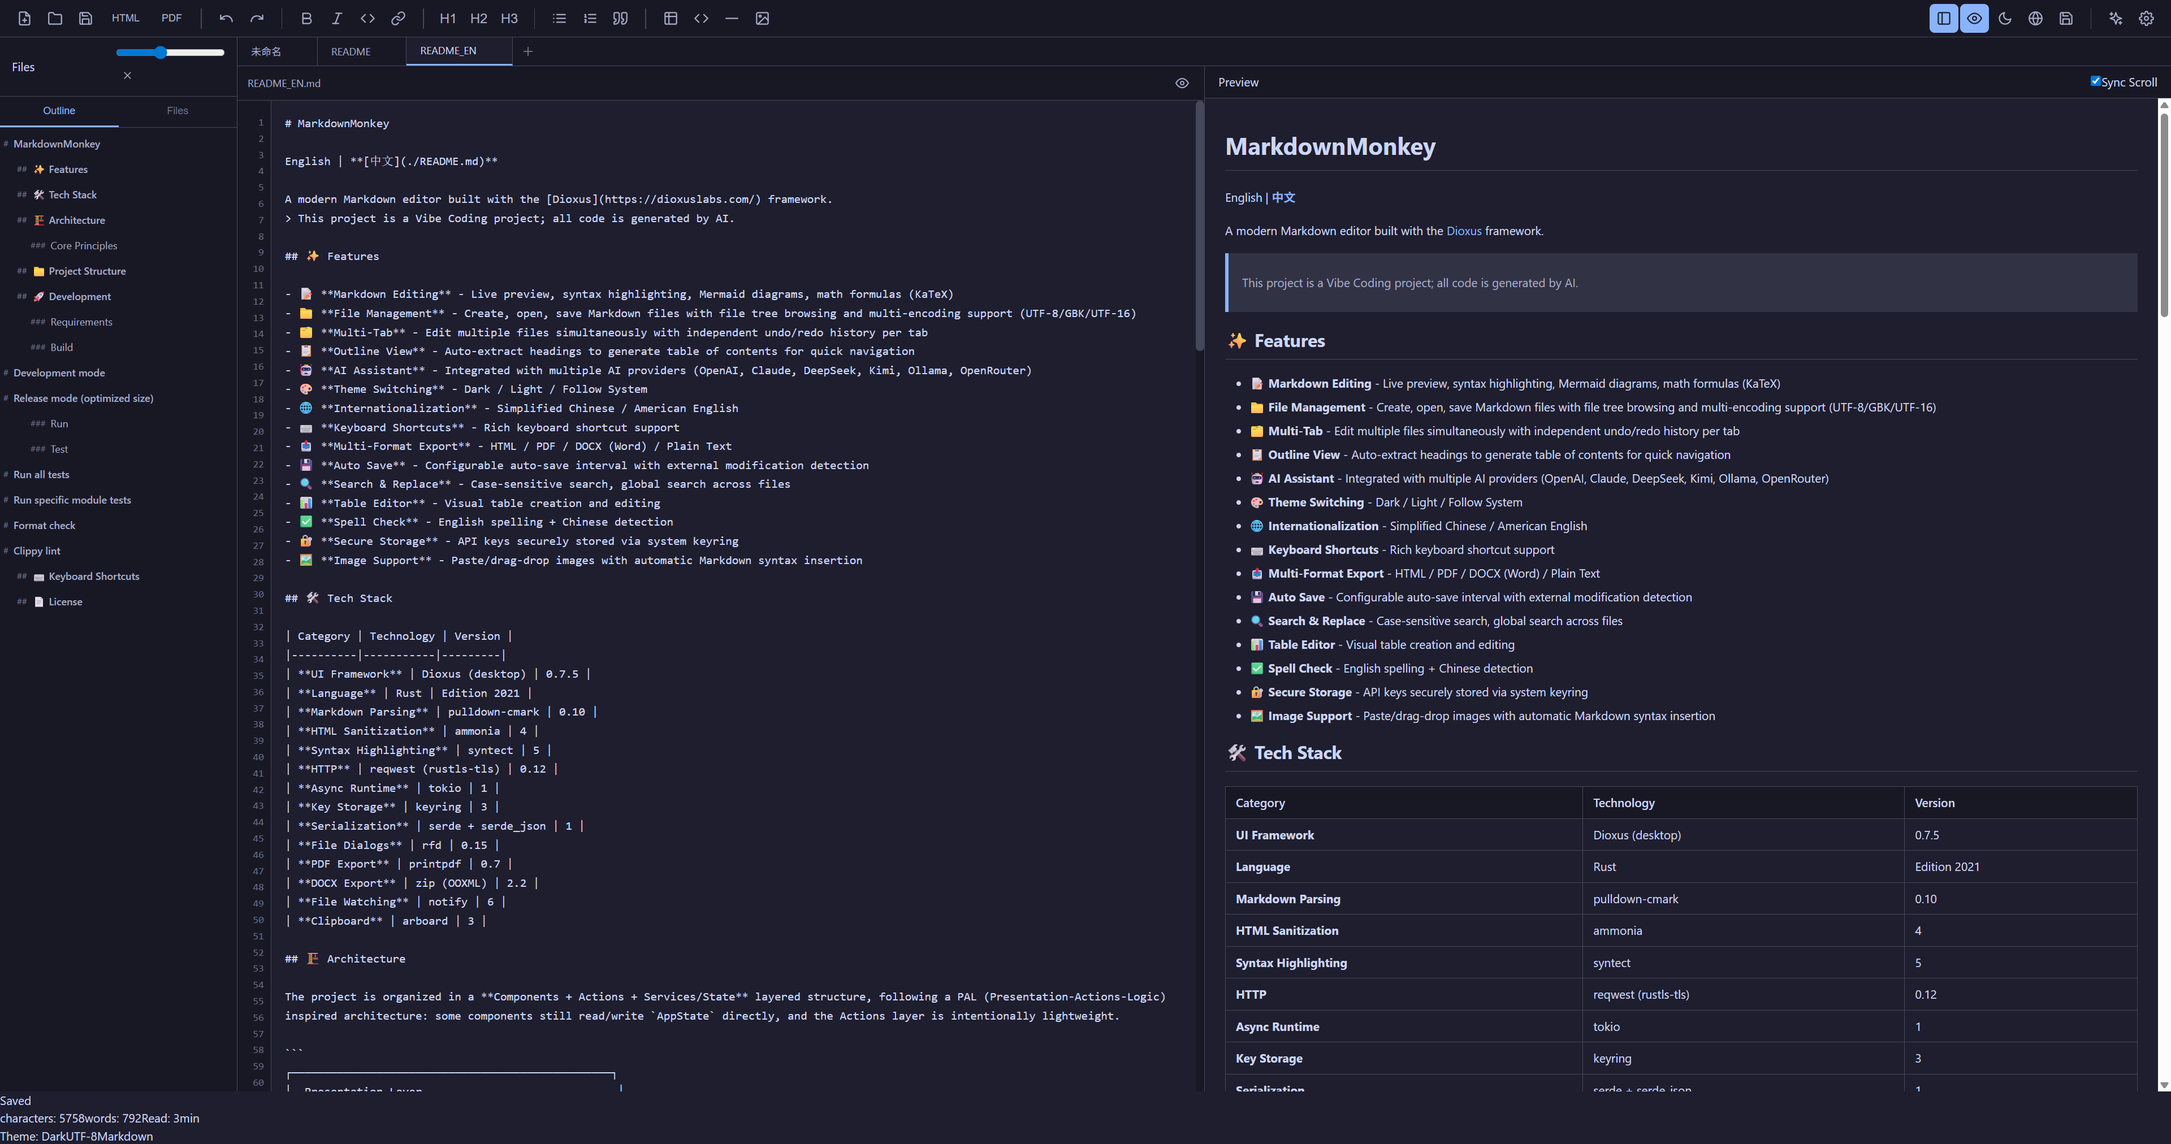
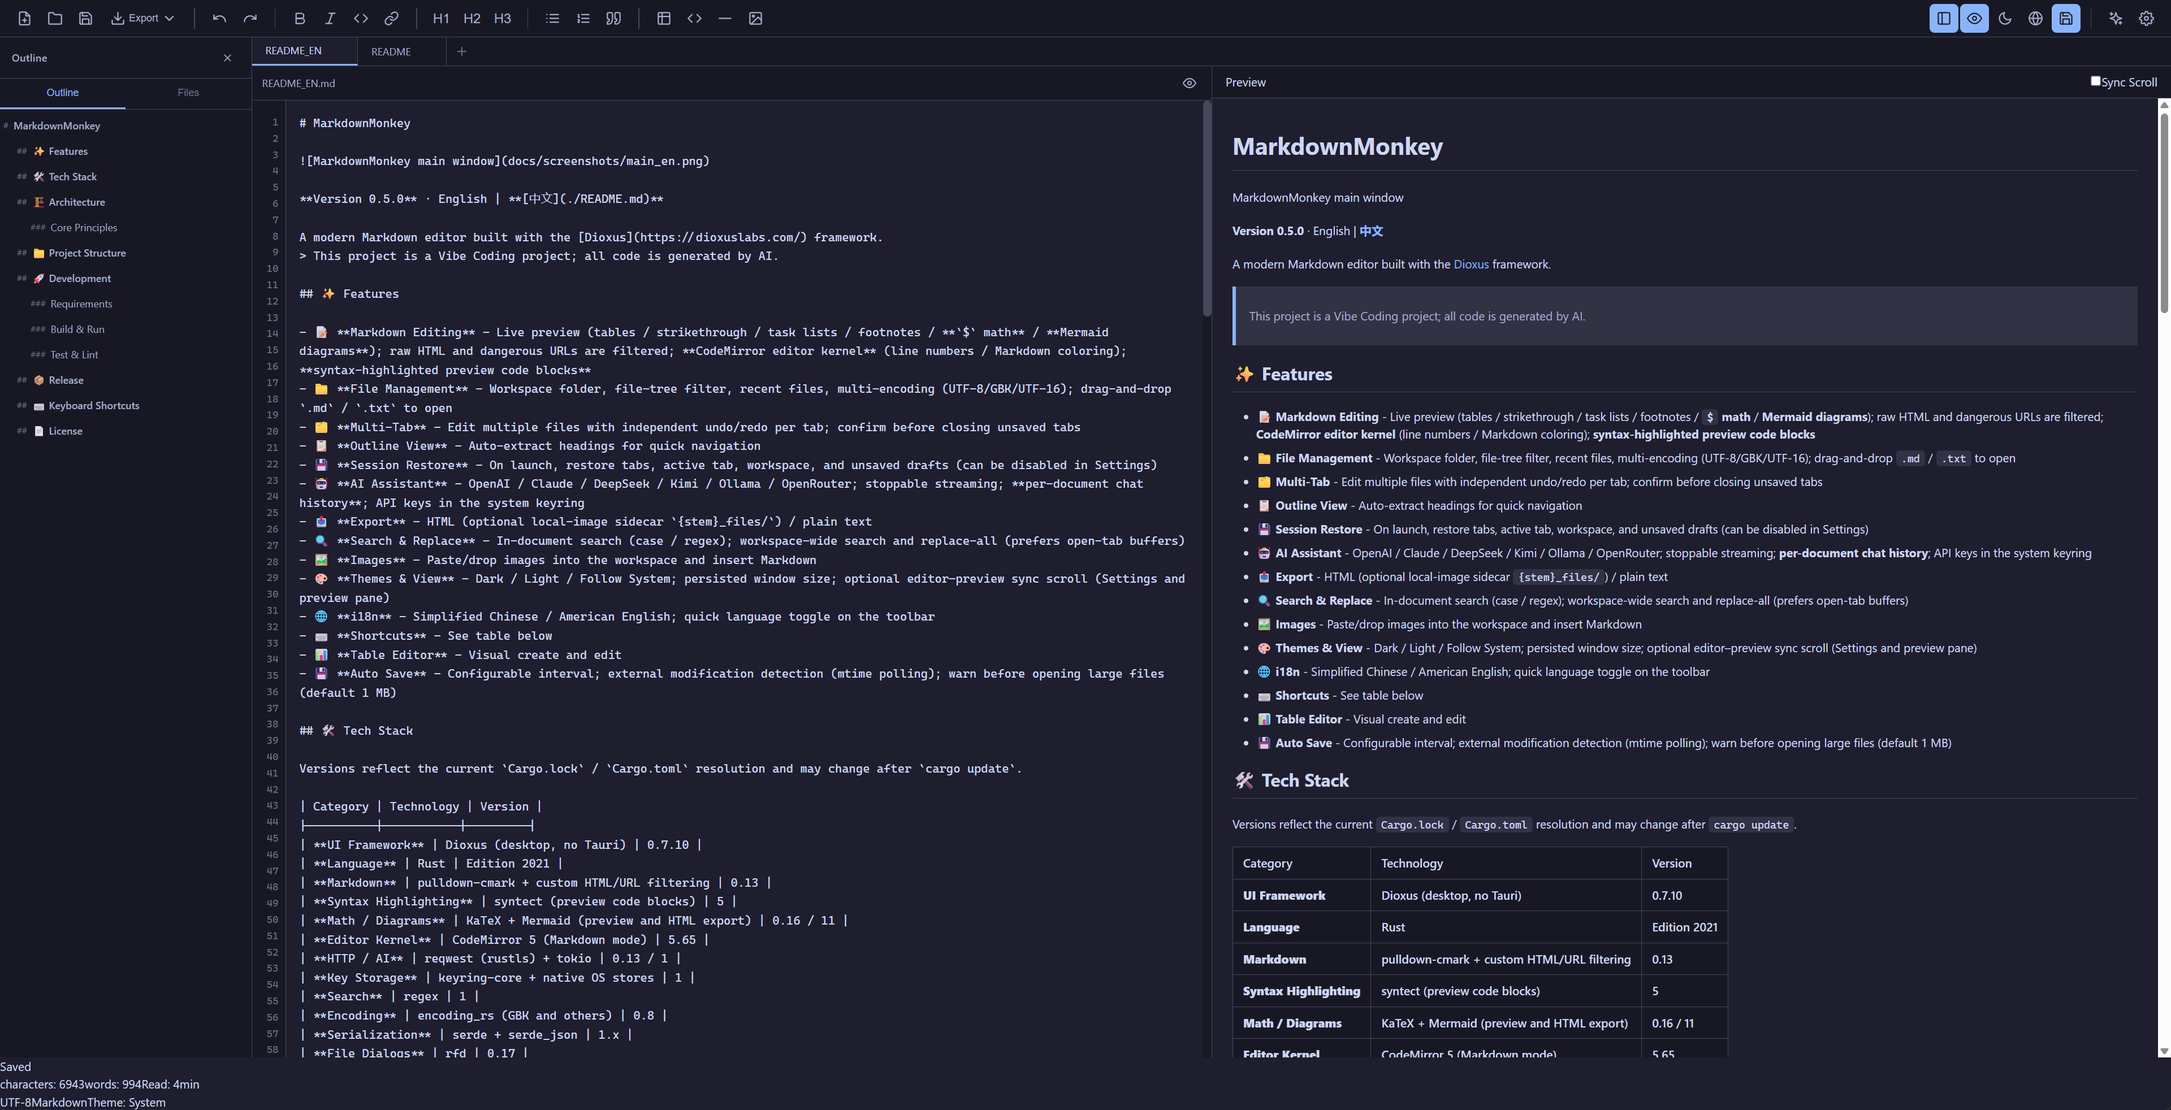
Refresh 0.5.0 docs, screenshots, and the pre-tag checklist.

diff --git a/README_EN.md b/README_EN.md
@@ -9,21 +9,20 @@ A modern Markdown editor built with the [Dioxus](https://dioxuslabs.com/) framew
 
 ## ✨ Features
 
-- 📝 **Markdown Editing** - Live preview; raw HTML and dangerous URLs are filtered
+- 📝 **Markdown Editing** - Live preview (tables / strikethrough / task lists / footnotes / **`$` math** / **Mermaid diagrams**); raw HTML and dangerous URLs are filtered; **CodeMirror editor kernel** (line numbers / Markdown coloring); **syntax-highlighted preview code blocks**
 - 📁 **File Management** - Workspace folder, file-tree filter, recent files, multi-encoding (UTF-8/GBK/UTF-16); drag-and-drop `.md` / `.txt` to open
 - 🗂 **Multi-Tab** - Edit multiple files with independent undo/redo per tab; confirm before closing unsaved tabs
 - 📋 **Outline View** - Auto-extract headings for quick navigation
 - 💾 **Session Restore** - On launch, restore tabs, active tab, workspace, and unsaved drafts (can be disabled in Settings)
-- 🤖 **AI Assistant** - OpenAI / Claude / DeepSeek / Kimi / Ollama / OpenRouter; stoppable streaming; **per-document chat history**
+- 🤖 **AI Assistant** - OpenAI / Claude / DeepSeek / Kimi / Ollama / OpenRouter; stoppable streaming; **per-document chat history**; API keys in the system keyring
 - 📤 **Export** - HTML (optional local-image sidecar `{stem}_files/`) / plain text
 - 🔍 **Search & Replace** - In-document search (case / regex); workspace-wide search and replace-all (prefers open-tab buffers)
 - 🖼 **Images** - Paste/drop images into the workspace and insert Markdown
-- 🎨 **Themes** - Dark / Light / Follow System; persisted window size; quick language toggle on the toolbar
-- 🌐 **i18n** - Simplified Chinese / American English
+- 🎨 **Themes & View** - Dark / Light / Follow System; persisted window size; optional editor–preview sync scroll (Settings and preview pane)
+- 🌐 **i18n** - Simplified Chinese / American English; quick language toggle on the toolbar
 - ⌨ **Shortcuts** - See table below
 - 📊 **Table Editor** - Visual create and edit
-- 🔐 **Secure Storage** - API keys in the system keyring
-- 💾 **Auto Save** - Configurable interval; external modification detection; warn before opening large files (default 1 MB)
+- 💾 **Auto Save** - Configurable interval; external modification detection (mtime polling); warn before opening large files (default 1 MB)
 
 ## 🛠 Tech Stack
 
@@ -31,39 +30,47 @@ Versions reflect the current `Cargo.lock` / `Cargo.toml` resolution and may chan
 
 | Category | Technology | Version |
 |----------|-----------|---------|
-| **UI Framework** | Dioxus (desktop) | 0.7.10 |
+| **UI Framework** | Dioxus (desktop, no Tauri) | 0.7.10 |
 | **Language** | Rust | Edition 2021 |
-| **Markdown Parsing** | pulldown-cmark | 0.13 |
-| **HTTP** | reqwest (rustls) | 0.13 |
-| **Async Runtime** | tokio | 1 |
+| **Markdown** | pulldown-cmark + custom HTML/URL filtering | 0.13 |
+| **Syntax Highlighting** | syntect (preview code blocks) | 5 |
+| **Math / Diagrams** | KaTeX + Mermaid (preview and HTML export) | 0.16 / 11 |
+| **Editor Kernel** | CodeMirror 5 (Markdown mode) | 5.65 |
+| **HTTP / AI** | reqwest (rustls) + tokio | 0.13 / 1 |
 | **Key Storage** | keyring-core + native OS stores | 1 |
+| **Search** | regex | 1 |
+| **Encoding** | encoding_rs (GBK and others) | 0.8 |
 | **Serialization** | serde + serde_json | 1.x |
 | **File Dialogs** | rfd | 0.17 |
 | **Logging** | tracing + tracing-subscriber | 0.1 / 0.3 |
 
 ## 🏗 Architecture
 
-Organized as **Components + Actions + Services/State**, following a PAL (Presentation-Actions-Logic) inspired layout: some components still read/write `AppState` directly, and the Actions layer stays intentionally lightweight.
+Organized as **Components + Actions + Services/State**, following a PAL (Presentation-Actions-Logic) inspired layout.
+
+Components **read** `AppState` through Dioxus Signals to drive the UI; all **writes** to `AppState` go through Actions. Component-local `use_signal` values (file-tree filter, model dropdown, table drafts) stay in the UI layer.
 
 ```
 ┌─────────────────────────────────────────────────┐
-│  Presentation Layer                              │
-│  components/ — UI components, rendering focused  │
+│  Presentation                                   │
+│  components/ — read-only AppState, render UI    │
 │  ├── editor.rs, preview.rs, sidebar.rs          │
 │  ├── toolbar.rs, tabbar.rs, statusbar.rs        │
-│  └── *_modal.rs (modals)                        │
+│  └── *_modal.rs (settings, search, AI, table, …)│
 ├─────────────────────────────────────────────────┤
-│  Actions Layer                                   │
-│  actions/ — Business logic handlers              │
-│  ├── app_actions.rs — App-level operations       │
-│  ├── editor_actions.rs — Editor operations       │
-│  ├── file_actions.rs — File operations           │
-│  └── shortcut_actions.rs — Shortcut dispatch     │
+│  Actions — the only AppState write entry        │
+│  ├── app_actions.rs — theme, language, sidebar, AI stream │
+│  ├── editor_actions.rs — edit, format, sync scroll        │
+│  ├── file_actions.rs — open / save / tabs                 │
+│  ├── search_actions.rs — in-document and workspace search │
+│  ├── settings_actions.rs — settings and keyring           │
+│  └── shortcut_actions.rs — shortcut dispatch              │
 ├─────────────────────────────────────────────────┤
-│  Logic Layer                                     │
-│  state/ — Global state (AppState, Dioxus Signal) │
-│  services/ — Pure logic services (testable)      │
-│  utils/ — Utilities (i18n, workspace search, …)  │
+│  Logic                                          │
+│  state/ — AppState (Dioxus Signal)              │
+│  services/ — testable logic (Markdown, export,  │
+│              session, mtime watcher, keyring)   │
+│  utils/ — i18n, encoding, paths, search, replace│
 └─────────────────────────────────────────────────┘
 ```
 
@@ -71,16 +78,16 @@ Organized as **Components + Actions + Services/State**, following a PAL (Present
 
 1. All hooks are called unconditionally at the top of components
 2. Always render all sub-components; control visibility with CSS
-3. Prefer Actions for reusable interaction logic, while allowing direct state access for simplicity
+3. Components read `AppState`; writes go through Actions; local UI drafts may stay in the component
 4. State management uses the Dioxus Signal reactive pattern
 
 ## 📁 Project Structure
 
 ```
 src/
-├── main.rs                 # Application entry
+├── main.rs                 # Application entry (Dioxus Desktop, no Tauri)
 ├── app.rs                  # Layout, init, auto-save, session restore, file watching
-├── config.rs               # App configuration constants
+├── config.rs               # Runtime thresholds and defaults
 │
 ├── state/
 │   ├── types.rs            # Theme, TabInfo, History, etc.
@@ -89,42 +96,55 @@ src/
 │   ├── app_state_ops.rs    # Document / tabs / outline logic
 │   └── app_state_tests.rs  # State unit tests
 │
-├── components/             # UI components
+├── components/             # UI (read Signals, write via Actions)
 │   ├── editor.rs / preview.rs / sidebar.rs / toolbar.rs
 │   ├── tabbar.rs / statusbar.rs / file_tree.rs / icons.rs
-│   └── *_modal.rs          # Settings, search, AI, table, confirms, …
+│   └── *_modal.rs          # Settings, search, AI, table, confirms, shortcuts
 │
-├── actions/                # Interaction logic
-│   ├── app_actions.rs / editor_actions.rs
-│   ├── file_actions.rs / shortcut_actions.rs
+├── actions/                # Interaction logic (AppState writes)
+│   ├── app_actions.rs / editor_actions.rs / file_actions.rs
+│   ├── search_actions.rs / settings_actions.rs
+│   ├── shortcut_actions.rs
 │   └── tests.rs
 │
 ├── services/
-│   ├── markdown.rs / ai.rs / auto_save.rs / image.rs
+│   ├── markdown.rs / highlight.rs / ai.rs / auto_save.rs / image.rs
 │   ├── settings.rs / session.rs / recent_files.rs
-│   ├── file_watcher.rs / keyring_service.rs / theme_detector.rs
-│   └── export/             # HTML / TXT
+│   ├── file_watcher.rs     # mtime polling (no filesystem-event crate)
+│   ├── keyring_service.rs / theme_detector.rs
+│   └── export/             # HTML / plain text
 │       ├── mod.rs / shared.rs
 │       ├── html.rs / text.rs
 │
 ├── utils/
-│   ├── i18n.rs / file_utils.rs / paths.rs / clipboard.rs
+│   ├── i18n.rs / file_utils.rs / file_encoding.rs
+│   ├── paths.rs / clipboard.rs
 │   ├── workspace_search.rs # Workspace search (open-tab buffers)
 │   └── replace.rs          # Replace helpers
 │
-└── styles/                 # CSS (variables / base / editor / toolbar / sidebar / modals)
+└── styles/                 # CSS (variables / base / editor / syntax / toolbar / sidebar / modals)
 
 assets/
-└── editor_enhance.js
+├── editor_enhance.js       # textarea extras (fallback without CodeMirror)
+├── editor_codemirror.js    # CodeMirror 5 upgrade and Rust bridge
+├── preview_enhance.js      # preview KaTeX / Mermaid
+└── vendor/                 # vendored CodeMirror / KaTeX / Mermaid
+
+packaging/                  # Windows Inno Setup / Linux .deb / macOS Info.plist
+docs/                       # release guide, checklist, README screenshots
 ```
 
-Settings and session data live under the user config directory in `MarkdownMonkey/` (e.g. `settings.json`, `session.json`, `session_drafts/`, `ai_history/`).
+Settings and session data live under the user config directory in `MarkdownMonkey/` (`settings.json`, `session.json`, `session_drafts/`, `ai_history/`):
+
+- Windows: `%APPDATA%\MarkdownMonkey`
+- macOS: `~/Library/Application Support/MarkdownMonkey`
+- Linux: `$XDG_CONFIG_HOME/MarkdownMonkey` or `~/.config/MarkdownMonkey`
 
 ## 🚀 Development
 
 ### Requirements
 
-- Rust 1.80+
+- Rust **1.88+** (CI uses `stable`; the source uses `slice::as_chunks`)
 - Cargo
 
 ### Build & Run
@@ -135,49 +155,57 @@ cargo build --release
 cargo run
 ```
 
-Verbose logging (Unix-like):
+Verbose logging (Windows PowerShell):
+
+```powershell
+$env:RUST_LOG="markdownmonkey=debug,info"; cargo run
+```
+
+Unix-like:
 
 ```bash
 RUST_LOG=markdownmonkey=debug,info cargo run
 ```
 
-```
-
 ### Test & Lint
 
+Same as CI (`.github/workflows/ci.yml`):
+
 ```bash
-cargo test
 cargo fmt --all -- --check
 cargo clippy --all-targets -- -D warnings
+cargo test --all-targets
 ```
 
 ## 📦 Release
 
-Cross-platform packaging and tagging are documented in **[docs/RELEASE.md](docs/RELEASE.md)** (GitHub Actions for Windows / Linux / macOS).
+Cross-platform packaging and tagging are documented in **[docs/RELEASE.md](docs/RELEASE.md)** (GitHub Actions: Windows zip + Setup.exe / Linux tar.gz + .deb / macOS `.app`). Complete **[docs/RELEASE_CHECKLIST.md](docs/RELEASE_CHECKLIST.md)** before tagging `v0.5.0`.
 
 ## ⌨ Keyboard Shortcuts
 
+macOS uses ⌘ (Command); Windows / Linux use Ctrl.
+
 | Shortcut | Action |
 |----------|--------|
-| Ctrl+N | New File |
-| Ctrl+O | Open File |
-| Ctrl+S | Save |
-| Ctrl+Z | Undo |
-| Ctrl+Y / Ctrl+Shift+Z | Redo |
-| Ctrl+B | Bold |
-| Ctrl+I | Italic |
-| Ctrl+` | Inline Code |
-| Ctrl+K | Insert Link |
-| Ctrl+F | In-document Search & Replace |
-| Ctrl+Shift+F | Workspace Search / Replace |
-| Ctrl+\\ | Toggle Sidebar |
-| Ctrl+P | Toggle Preview |
-| Ctrl+T | Toggle Theme |
-| Ctrl+, | Open Settings |
-| Ctrl+/ | Show Shortcuts |
-| Ctrl+J | AI Assistant |
+| Ctrl/⌘+N | New File |
+| Ctrl/⌘+O | Open File |
+| Ctrl/⌘+S | Save |
+| Ctrl/⌘+Z | Undo |
+| Ctrl/⌘+Y / Ctrl/⌘+Shift+Z | Redo |
+| Ctrl/⌘+B | Bold |
+| Ctrl/⌘+I | Italic |
+| Ctrl/⌘+` | Inline Code |
+| Ctrl/⌘+K | Insert Link |
+| Ctrl/⌘+F | In-document Search & Replace |
+| Ctrl/⌘+Shift+F | Workspace Search / Replace |
+| Ctrl/⌘+\\ | Toggle Sidebar |
+| Ctrl/⌘+P | Toggle Preview |
+| Ctrl/⌘+T | Toggle Theme |
+| Ctrl/⌘+, | Open Settings |
+| Ctrl/⌘+/ | Show Shortcuts |
+| Ctrl/⌘+J | AI Assistant |
 | Escape | Close Modal |
 
 ## 📄 License
 
-MIT License
+MIT License (see [LICENSE](./LICENSE) in the repository root)

diff --git a/docs/RELEASE_CHECKLIST.md b/docs/RELEASE_CHECKLIST.md
@@ -1,0 +1,72 @@
+# v0.5.0 打 tag 前验收清单 / Pre-tag checklist
+
+打 `v0.5.0` 并推送到 GitHub 之前勾完本页。流程见 [RELEASE.md](RELEASE.md)。
+Complete this page before tagging `v0.5.0`. See [RELEASE.md](RELEASE.md) for the publish flow.
+
+## 文档 / Docs
+
+- [x] `README.md` 与 `README_EN.md` 特性、技术栈、架构、目录结构一致
+- [x] `Cargo.toml` 版本仍为 `0.5.0`，与 README / RELEASE 一致
+- [x] `docs/screenshots/main_zh.png`、`main_en.png` 已用当前 UI **重拍**
+- [x] 截图分别用中文、英文界面打开对应 README，大纲标题为「特性 / Features」，无叠字
+
+## 本地检查 / Local CI parity
+
+```powershell
+cargo fmt --all -- --check
+cargo clippy --all-targets -- -D warnings
+cargo test --all-targets
+cargo build --release --locked
+```
+
+- [ ] 以上四条全部通过
+
+## 实机界面 / Desktop smoke
+
+用 `cargo run` 或 release 二进制，**从磁盘重新打开** `README.md` 与 `README_EN.md`（不要保存仍乱码的缓冲区）。
+
+- [ ] 编辑器、预览、大纲标题为「特性」/ `Features`，无叠字、无双行号
+- [ ] CodeMirror 行号与 Markdown 着色正常，底层 textarea 不可见
+- [ ] 预览表格列宽可读，中西文混排不挤成竖条
+- [ ] 相对路径图片（如 `docs/screenshots/main_*.png`）在预览中能显示
+- [ ] 任务列表、脚注、删除线渲染正确
+- [ ] `$E=mc^2$` 与 `$$` 块级公式能出预览（系统衬线回退可接受）
+- [ ] ` ```mermaid ` 流程图能出图，失败时仍显示源码
+- [ ] 预览 rust/js 代码块有 syntect 高亮
+- [ ] 大纲点击跳到对应标题；同步滚动开关有效
+- [ ] 深色 / 浅色 / 跟随系统切换后编辑器主题跟着变
+- [ ] 工具栏中英文切换后面板文案正确
+
+## 文件与会话 / Files and session
+
+- [ ] 打开 / 保存 / 另存为；未保存关闭有确认
+- [ ] 拖放 `.md` / `.txt` 会开标签；粘贴图片会写入工作区并插入 Markdown
+- [ ] 重启后恢复工作区、标签和未保存草稿（设置里可关）
+- [ ] UTF-8 / GBK 文件能打开且不乱码
+
+## 搜索与 AI / Search and AI
+
+- [ ] Ctrl/⌘+F 文档内搜索高亮与跳转
+- [ ] Ctrl/⌘+Shift+F 工作区搜索能命中已打开标签缓冲
+- [ ] AI 面板能开能关；未配置 Key 时提示明确（不把 Key 写进 `settings.json`）
+
+## 导出与安装包 / Export and packages
+
+- [ ] 导出 HTML 含高亮 / 公式 / Mermaid 脚本；可选打包本地图片到 `{stem}_files/`
+- [ ] 导出纯文本内容完整
+- [ ] 不打 tag，先用 Release 工作流 `workflow_dispatch` 打一版产物并本地试装：
+  - [ ] Windows：zip 可解压运行，`*-setup.exe` 能装能开
+  - [ ] Linux：`.tar.gz` 与 `.deb` 能装能开（有桌面项）
+  - [ ] macOS：`.app` 能从 tar 解开后启动
+
+## 打 tag / Tag
+
+全部勾选后再执行：
+
+```powershell
+git tag v0.5.0
+git push origin v0.5.0
+```
+
+- [ ] GitHub Release 已生成，三个平台附件和 checksum 齐全
+- [ ] 本清单无需随 tag 清空；下次版本复制后改标题即可

diff --git a/README.md b/README.md
@@ -108,7 +108,7 @@ src/
 │   └── tests.rs
 │
 ├── services/
-│   ├── markdown.rs / ai.rs / auto_save.rs / image.rs
+│   ├── markdown.rs / highlight.rs / ai.rs / auto_save.rs / image.rs
 │   ├── settings.rs / session.rs / recent_files.rs
 │   ├── file_watcher.rs     # mtime 轮询（无文件系统事件 crate）
 │   ├── keyring_service.rs / theme_detector.rs
@@ -122,10 +122,16 @@ src/
 │   ├── workspace_search.rs # 工作区搜索（含打开标签缓冲）
 │   └── replace.rs          # 替换工具
 │
-└── styles/                 # CSS（variables / base / editor / toolbar / sidebar / modals）
+└── styles/                 # CSS（variables / base / editor / syntax / toolbar / sidebar / modals）
 
 assets/
-└── editor_enhance.js       # 行号、虚拟滚动、同步滚动
+├── editor_enhance.js       # textarea 增强（无 CodeMirror 时的回退）
+├── editor_codemirror.js    # CodeMirror 5 升级与 Rust 桥
+├── preview_enhance.js      # 预览 KaTeX / Mermaid
+└── vendor/                 # CodeMirror / KaTeX / Mermaid 本地脚本
+
+packaging/                  # Windows Inno Setup / Linux .deb / macOS Info.plist
+docs/                       # 发布说明、验收清单、README 截图
 ```
 
 配置与会话数据默认位于用户配置目录下的 `MarkdownMonkey/`（`settings.json`、`session.json`、`session_drafts/`、`ai_history/`）：
@@ -173,7 +179,7 @@ cargo test --all-targets
 
 ## 📦 发布
 
-跨平台打包与打标签流程见 **[docs/RELEASE.md](docs/RELEASE.md)**（GitHub Actions：Windows zip + Setup.exe / Linux tar.gz + .deb / macOS `.app`）。
+跨平台打包与打标签流程见 **[docs/RELEASE.md](docs/RELEASE.md)**（GitHub Actions：Windows zip + Setup.exe / Linux tar.gz + .deb / macOS `.app`）。打 `v0.5.0` 前请按 **[docs/RELEASE_CHECKLIST.md](docs/RELEASE_CHECKLIST.md)** 验收。
 
 ## ⌨ 快捷键
 

diff --git a/docs/RELEASE.md b/docs/RELEASE.md
@@ -6,6 +6,9 @@ MarkdownMonkey publishes desktop release packages through GitHub Actions for
 Current app version: **0.5.0** (see `Cargo.toml`). CI uses the `stable` Rust
 toolchain; building from source needs **Rust 1.88+**.
 
+Before creating the `v0.5.0` tag, complete
+**[RELEASE_CHECKLIST.md](RELEASE_CHECKLIST.md)** (docs, desktop smoke, packages).
+
 ## Local Verification
 
 Run the same checks used by CI before cutting a release:
@@ -64,4 +67,5 @@ Installers:
 Project documentation also includes:
 
 - [RELEASE.md](RELEASE.md) — this guide
+- [RELEASE_CHECKLIST.md](RELEASE_CHECKLIST.md) — pre-tag acceptance checklist
 - [screenshots/](screenshots/) — UI screenshots referenced by the READMEs (`main_zh.png`, `main_en.png`). Recapture after README or chrome changes so the in-app editor still matches the docs.
